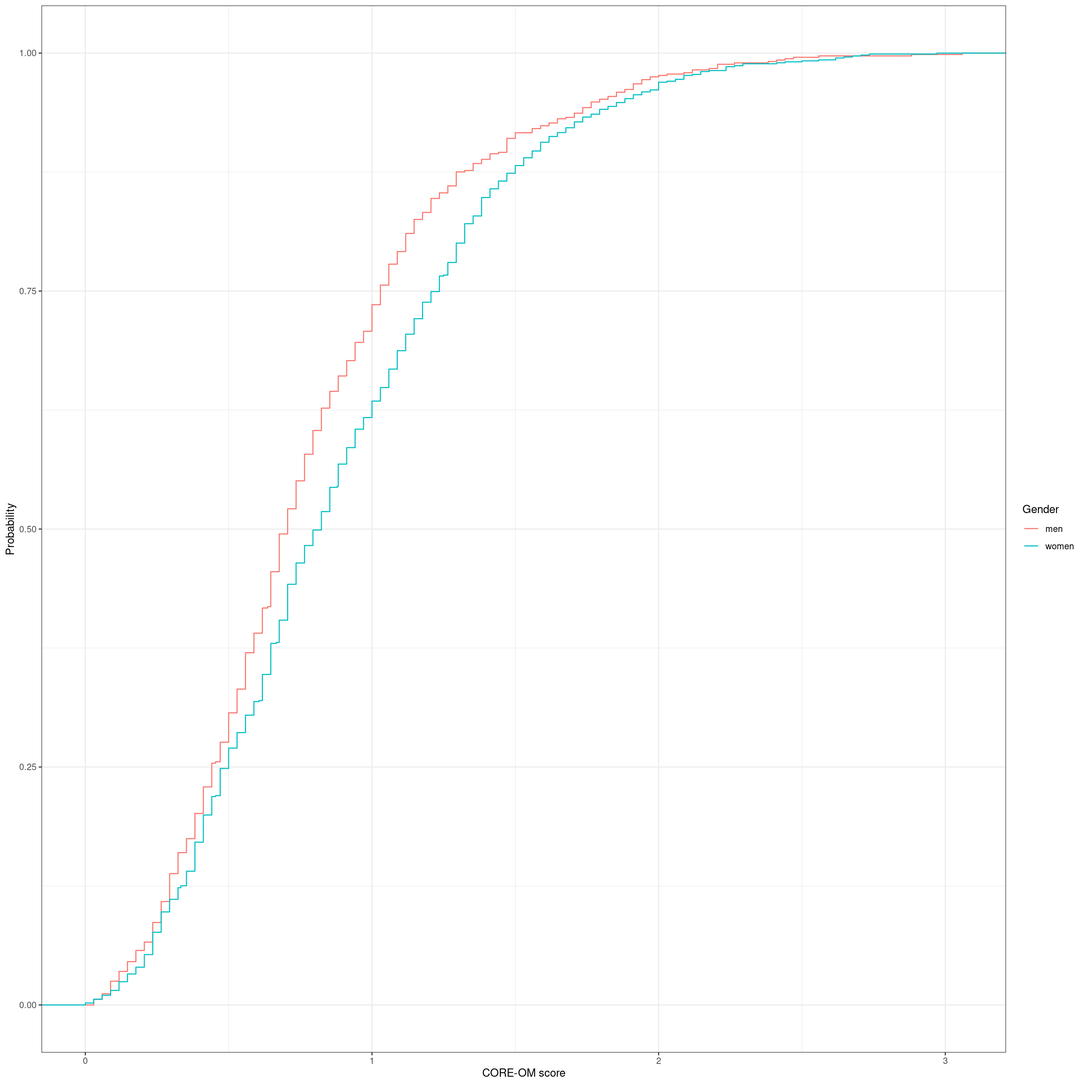
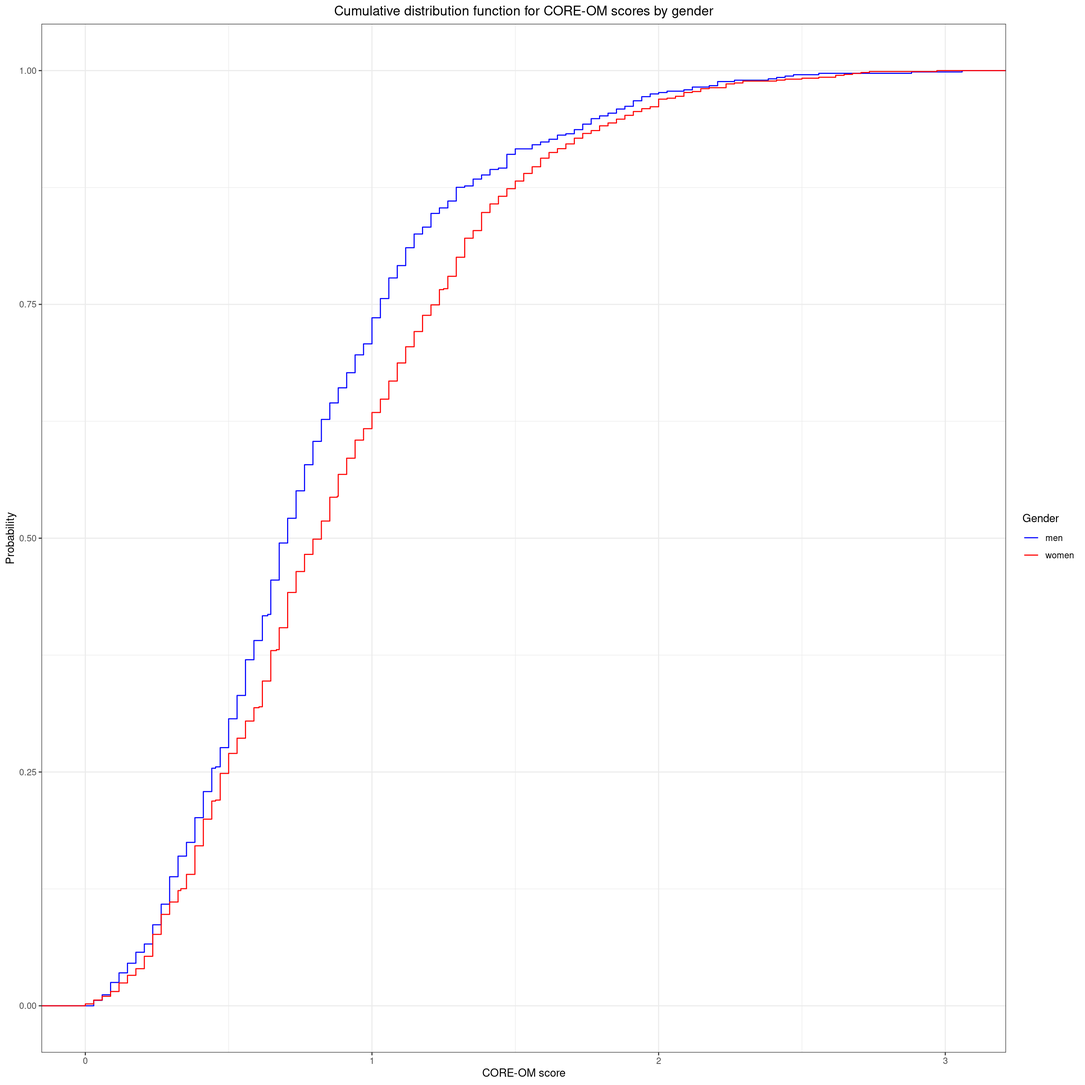
Couple of tweaks
Former-commit-id: f3c81b8920dc75a303f18cf2c46e25ee304b4f4e

diff --git a/_posts/2023-08-07-ecdfs/ecdfs.html b/_posts/2023-08-07-ecdfs/ecdfs.html
@@ -90,7 +90,7 @@ code span.wa { color: #5e5e5e; font-style: italic; } /* Warning */
   <!--radix_placeholder_meta_tags-->
   <title>What is an empirical cumulative distribution function?</title>
 
-  <meta property="description" itemprop="description" content="A general introductioni to the ECDF and quantiles and why they&#39;re useful."/>
+  <meta property="description" itemprop="description" content="A general introduction to the ECDF and quantiles and why they&#39;re useful."/>
 
   <link rel="license" href="https://creativecommons.org/licenses/by-sa/4.0/"/>
 
@@ -102,24 +102,24 @@ code span.wa { color: #5e5e5e; font-style: italic; } /* Warning */
   <!--  https://developers.facebook.com/docs/sharing/webmasters#markup -->
   <meta property="og:title" content="What is an empirical cumulative distribution function?"/>
   <meta property="og:type" content="article"/>
-  <meta property="og:description" content="A general introductioni to the ECDF and quantiles and why they&#39;re useful."/>
+  <meta property="og:description" content="A general introduction to the ECDF and quantiles and why they&#39;re useful."/>
   <meta property="og:locale" content="en_US"/>
 
   <!--  https://dev.twitter.com/cards/types/summary -->
   <meta property="twitter:card" content="summary"/>
   <meta property="twitter:title" content="What is an empirical cumulative distribution function?"/>
-  <meta property="twitter:description" content="A general introductioni to the ECDF and quantiles and why they&#39;re useful."/>
+  <meta property="twitter:description" content="A general introduction to the ECDF and quantiles and why they&#39;re useful."/>
 
   <!--/radix_placeholder_meta_tags-->
   <!--radix_placeholder_rmarkdown_metadata-->
 
   <script type="text/json" id="radix-rmarkdown-metadata">
-  {"type":"list","attributes":{"names":{"type":"character","attributes":{},"value":["title","description","author","date","categories","output","creative_commons"]}},"value":[{"type":"character","attributes":{},"value":["What is an empirical cumulative distribution function?"]},{"type":"character","attributes":{},"value":["A general introductioni to the ECDF and quantiles and why they're useful.\n"]},{"type":"list","attributes":{},"value":[{"type":"list","attributes":{"names":{"type":"character","attributes":{},"value":["name","url","affiliation","affiliation_url","orcid_id"]}},"value":[{"type":"character","attributes":{},"value":["Chris Evans"]},{"type":"character","attributes":{},"value":["https://www.psyctc.org/R_blog/"]},{"type":"character","attributes":{},"value":["PSYCTC.org"]},{"type":"character","attributes":{},"value":["https://www.psyctc.org/psyctc/"]},{"type":"character","attributes":{},"value":["0000-0002-4197-4202"]}]}]},{"type":"character","attributes":{},"value":["2023-08-07"]},{"type":"character","attributes":{},"value":["distributions","ECDFs"]},{"type":"list","attributes":{"names":{"type":"character","attributes":{},"value":["distill::distill_article"]}},"value":[{"type":"list","attributes":{"names":{"type":"character","attributes":{},"value":["toc","toc_depth","hightlight_downlit","self_contained","code_folding"]}},"value":[{"type":"logical","attributes":{},"value":[true]},{"type":"integer","attributes":{},"value":[4]},{"type":"logical","attributes":{},"value":[true]},{"type":"logical","attributes":{},"value":[false]},{"type":"logical","attributes":{},"value":[true]}]}]},{"type":"character","attributes":{},"value":["CC BY-SA"]}]}
+  {"type":"list","attributes":{"names":{"type":"character","attributes":{},"value":["title","description","author","date","categories","output","creative_commons"]}},"value":[{"type":"character","attributes":{},"value":["What is an empirical cumulative distribution function?"]},{"type":"character","attributes":{},"value":["A general introduction to the ECDF and quantiles and why they're useful.\n"]},{"type":"list","attributes":{},"value":[{"type":"list","attributes":{"names":{"type":"character","attributes":{},"value":["name","url","affiliation","affiliation_url","orcid_id"]}},"value":[{"type":"character","attributes":{},"value":["Chris Evans"]},{"type":"character","attributes":{},"value":["https://www.psyctc.org/R_blog/"]},{"type":"character","attributes":{},"value":["PSYCTC.org"]},{"type":"character","attributes":{},"value":["https://www.psyctc.org/psyctc/"]},{"type":"character","attributes":{},"value":["0000-0002-4197-4202"]}]}]},{"type":"character","attributes":{},"value":["2023-08-07"]},{"type":"character","attributes":{},"value":["distributions","ECDFs"]},{"type":"list","attributes":{"names":{"type":"character","attributes":{},"value":["distill::distill_article"]}},"value":[{"type":"list","attributes":{"names":{"type":"character","attributes":{},"value":["toc","toc_depth","hightlight_downlit","self_contained","code_folding"]}},"value":[{"type":"logical","attributes":{},"value":[true]},{"type":"integer","attributes":{},"value":[4]},{"type":"logical","attributes":{},"value":[true]},{"type":"logical","attributes":{},"value":[false]},{"type":"logical","attributes":{},"value":[true]}]}]},{"type":"character","attributes":{},"value":["CC BY-SA"]}]}
   </script>
   <!--/radix_placeholder_rmarkdown_metadata-->
   
   <script type="text/json" id="radix-resource-manifest">
-  {"type":"character","attributes":{},"value":["ecdfs_files/anchor-4.2.2/anchor.min.js","ecdfs_files/bowser-1.9.3/bowser.min.js","ecdfs_files/distill-2.2.21/template.v2.js","ecdfs_files/figure-html5/boxPlots-1.png","ecdfs_files/figure-html5/counts-1.png","ecdfs_files/figure-html5/ecdfs-1.png","ecdfs_files/figure-html5/equiprob1-1.png","ecdfs_files/figure-html5/plotECDF1-1.png","ecdfs_files/figure-html5/plotECDFrug-1.png","ecdfs_files/figure-html5/plotECDFrug2-1.png","ecdfs_files/figure-html5/plotGaussian1-1.png","ecdfs_files/figure-html5/plotGaussian2-1.png","ecdfs_files/figure-html5/realDat1-1.png","ecdfs_files/figure-html5/violinPlots-1.png","ecdfs_files/figure-html5/violinPlots1-1.png","ecdfs_files/figure-html5/violinPlots2-1.png","ecdfs_files/header-attrs-2.23/header-attrs.js","ecdfs_files/jquery-3.6.0/jquery-3.6.0.js","ecdfs_files/jquery-3.6.0/jquery-3.6.0.min.js","ecdfs_files/jquery-3.6.0/jquery-3.6.0.min.map","ecdfs_files/popper-2.6.0/popper.min.js","ecdfs_files/tabwid-1.1.3/tabwid.css","ecdfs_files/tabwid-1.1.3/tabwid.js","ecdfs_files/tippy-6.2.7/tippy-bundle.umd.min.js","ecdfs_files/tippy-6.2.7/tippy-light-border.css","ecdfs_files/tippy-6.2.7/tippy.css","ecdfs_files/tippy-6.2.7/tippy.umd.min.js","ecdfs_files/webcomponents-2.0.0/webcomponents.js","tmpScores"]}
+  {"type":"character","attributes":{},"value":["ecdfs_files/anchor-4.2.2/anchor.min.js","ecdfs_files/bowser-1.9.3/bowser.min.js","ecdfs_files/distill-2.2.21/template.v2.js","ecdfs_files/figure-html5/boxPlots-1.png","ecdfs_files/figure-html5/counts-1.png","ecdfs_files/figure-html5/ecdfs-1.png","ecdfs_files/figure-html5/equiprob1-1.png","ecdfs_files/figure-html5/plotECDF1-1.png","ecdfs_files/figure-html5/plotECDFrug-1.png","ecdfs_files/figure-html5/plotECDFrug2-1.png","ecdfs_files/figure-html5/plotGaussian1-1.png","ecdfs_files/figure-html5/plotGaussian2-1.png","ecdfs_files/figure-html5/realDat1-1.png","ecdfs_files/figure-html5/violinPlots-1.png","ecdfs_files/figure-html5/violinPlots1-1.png","ecdfs_files/figure-html5/violinPlots2-1.png","ecdfs_files/header-attrs-2.23/header-attrs.js","ecdfs_files/header-attrs-2.24/header-attrs.js","ecdfs_files/jquery-3.6.0/jquery-3.6.0.js","ecdfs_files/jquery-3.6.0/jquery-3.6.0.min.js","ecdfs_files/jquery-3.6.0/jquery-3.6.0.min.map","ecdfs_files/popper-2.6.0/popper.min.js","ecdfs_files/tabwid-1.1.3/tabwid.css","ecdfs_files/tabwid-1.1.3/tabwid.js","ecdfs_files/tippy-6.2.7/tippy-bundle.umd.min.js","ecdfs_files/tippy-6.2.7/tippy-light-border.css","ecdfs_files/tippy-6.2.7/tippy.css","ecdfs_files/tippy-6.2.7/tippy.umd.min.js","ecdfs_files/webcomponents-2.0.0/webcomponents.js","tmpScores"]}
   </script>
   <!--radix_placeholder_navigation_in_header-->
   <!--/radix_placeholder_navigation_in_header-->
@@ -231,9 +231,21 @@ code span.wa { color: #5e5e5e; font-style: italic; } /* Warning */
     display: none !important;
   }
 
+  hr.section-separator {
+    border: none;
+    border-top: 1px solid rgba(0, 0, 0, 0.1);
+    margin: 0px;
+  }
+
+
+  d-byline {
+    border-top: none;
+  }
+
   d-article {
     padding-top: 2.5rem;
     padding-bottom: 30px;
+    border-top: none;
   }
 
   d-appendix {
@@ -1094,6 +1106,12 @@ code span.wa { color: #5e5e5e; font-style: italic; } /* Warning */
     // create d-title
     $('.d-title').changeElementType('d-title');
 
+    // separator
+    var separator = '<hr class="section-separator" style="clear: both"/>';
+    // prepend separator above appendix
+    $('.d-byline').before(separator);
+    $('.d-article').before(separator);
+
     // create d-byline
     var byline = $('<d-byline></d-byline>');
     $('.d-byline').replaceWith(byline);
@@ -1199,12 +1217,13 @@ code span.wa { color: #5e5e5e; font-style: italic; } /* Warning */
       // add orcid ids
       $('.authors-affiliations').find('.author').each(function(i, el) {
         var orcid_id = front_matter.authors[i].orcidID;
+        var author_name = front_matter.authors[i].author
         if (orcid_id) {
           var a = $('<a></a>');
           a.attr('href', 'https://orcid.org/' + orcid_id);
           var img = $('<img></img>');
           img.addClass('orcid-id');
-          img.attr('alt', 'ORCID ID');
+          img.attr('alt', author_name ? 'ORCID ID for ' + author_name : 'ORCID ID');
[1 lines of base64/hex data omitted]
           a.append(img);
           $(this).append(a);
@@ -1482,7 +1501,7 @@ code span.wa { color: #5e5e5e; font-style: italic; } /* Warning */
   </script>
 
   <!--/radix_placeholder_distill-->
-  <script src="ecdfs_files/header-attrs-2.24/header-attrs.js"></script>
+  <script src="ecdfs_files/header-attrs-2.25/header-attrs.js"></script>
   <link href="ecdfs_files/tabwid-1.1.3/tabwid.css" rel="stylesheet" />
   <script src="ecdfs_files/tabwid-1.1.3/tabwid.js"></script>
   <script src="ecdfs_files/jquery-3.6.0/jquery-3.6.0.min.js"></script>
@@ -1505,7 +1524,7 @@ code span.wa { color: #5e5e5e; font-style: italic; } /* Warning */
 <!--radix_placeholder_front_matter-->
 
 <script id="distill-front-matter" type="text/json">
-{"title":"What is an empirical cumulative distribution function?","description":"A general introductioni to the ECDF and quantiles and why they're useful.","authors":[{"author":"Chris Evans","authorURL":"https://www.psyctc.org/R_blog/","affiliation":"PSYCTC.org","affiliationURL":"https://www.psyctc.org/psyctc/","orcidID":"0000-0002-4197-4202"}],"publishedDate":"2023-08-07T00:00:00.000+02:00","citationText":"Evans, 2023"}
+{"title":"What is an empirical cumulative distribution function?","description":"A general introduction to the ECDF and quantiles and why they're useful.","authors":[{"author":"Chris Evans","authorURL":"https://www.psyctc.org/R_blog/","affiliation":"PSYCTC.org","affiliationURL":"https://www.psyctc.org/psyctc/","orcidID":"0000-0002-4197-4202"}],"publishedDate":"2023-08-07T00:00:00.000+02:00","citationText":"Evans, 2023"}
 </script>
 
 <!--/radix_placeholder_front_matter-->
@@ -1523,7 +1542,7 @@ code span.wa { color: #5e5e5e; font-style: italic; } /* Warning */
 <div class="dt-tag">ECDFs</div>
 </div>
 <!--/radix_placeholder_categories-->
-<p><p>A general introductioni to the ECDF and quantiles and why they’re useful.</p></p>
+<p><p>A general introduction to the ECDF and quantiles and why they’re useful.</p></p>
 </div>
 
 <div class="d-byline">

diff --git a/_posts/2023-08-11-mapping-individual-scores-to-referential-data-using-quantiles/mapping-individual-scores-to-referential-data-using-quantiles.html b/_posts/2023-08-11-mapping-individual-scores-to-referential-data-using-quantiles/mapping-individual-scores-to-referential-data-using-quantiles.html
@@ -119,7 +119,7 @@ code span.wa { color: #5e5e5e; font-style: italic; } /* Warning */
   <!--/radix_placeholder_rmarkdown_metadata-->
   
   <script type="text/json" id="radix-resource-manifest">
-  {"type":"character","attributes":{},"value":["mapping-individual-scores-to-referential-data-using-quantiles_files/anchor-4.2.2/anchor.min.js","mapping-individual-scores-to-referential-data-using-quantiles_files/bowser-1.9.3/bowser.min.js","mapping-individual-scores-to-referential-data-using-quantiles_files/distill-2.2.21/template.v2.js","mapping-individual-scores-to-referential-data-using-quantiles_files/figure-html5/bootMeanGenderPlot-1.png","mapping-individual-scores-to-referential-data-using-quantiles_files/figure-html5/bootMeanGenderPlot2-1.png","mapping-individual-scores-to-referential-data-using-quantiles_files/figure-html5/changeMap-1.png","mapping-individual-scores-to-referential-data-using-quantiles_files/figure-html5/gender1-1.png","mapping-individual-scores-to-referential-data-using-quantiles_files/figure-html5/gender2-1.png","mapping-individual-scores-to-referential-data-using-quantiles_files/figure-html5/gender3-1.png","mapping-individual-scores-to-referential-data-using-quantiles_files/figure-html5/gender3-2.png","mapping-individual-scores-to-referential-data-using-quantiles_files/figure-html5/realDat1-1.png","mapping-individual-scores-to-referential-data-using-quantiles_files/header-attrs-2.23/header-attrs.js","mapping-individual-scores-to-referential-data-using-quantiles_files/header-attrs-2.24/header-attrs.js","mapping-individual-scores-to-referential-data-using-quantiles_files/jquery-3.6.0/jquery-3.6.0.js","mapping-individual-scores-to-referential-data-using-quantiles_files/jquery-3.6.0/jquery-3.6.0.min.js","mapping-individual-scores-to-referential-data-using-quantiles_files/jquery-3.6.0/jquery-3.6.0.min.map","mapping-individual-scores-to-referential-data-using-quantiles_files/popper-2.6.0/popper.min.js","mapping-individual-scores-to-referential-data-using-quantiles_files/tabwid-1.1.3/tabwid.css","mapping-individual-scores-to-referential-data-using-quantiles_files/tabwid-1.1.3/tabwid.js","mapping-individual-scores-to-referential-data-using-quantiles_files/tippy-6.2.7/tippy-bundle.umd.min.js","mapping-individual-scores-to-referential-data-using-quantiles_files/tippy-6.2.7/tippy-light-border.css","mapping-individual-scores-to-referential-data-using-quantiles_files/tippy-6.2.7/tippy.css","mapping-individual-scores-to-referential-data-using-quantiles_files/tippy-6.2.7/tippy.umd.min.js","mapping-individual-scores-to-referential-data-using-quantiles_files/webcomponents-2.0.0/webcomponents.js","tibChangeScores","tmpScores"]}
+  {"type":"character","attributes":{},"value":["mapping-individual-scores-to-referential-data-using-quantiles_files/anchor-4.2.2/anchor.min.js","mapping-individual-scores-to-referential-data-using-quantiles_files/bowser-1.9.3/bowser.min.js","mapping-individual-scores-to-referential-data-using-quantiles_files/distill-2.2.21/template.v2.js","mapping-individual-scores-to-referential-data-using-quantiles_files/figure-html5/bootMeanGenderPlot-1.png","mapping-individual-scores-to-referential-data-using-quantiles_files/figure-html5/bootMeanGenderPlot2-1.png","mapping-individual-scores-to-referential-data-using-quantiles_files/figure-html5/changeMap-1.png","mapping-individual-scores-to-referential-data-using-quantiles_files/figure-html5/gender1-1.png","mapping-individual-scores-to-referential-data-using-quantiles_files/figure-html5/gender2-1.png","mapping-individual-scores-to-referential-data-using-quantiles_files/figure-html5/gender3-1.png","mapping-individual-scores-to-referential-data-using-quantiles_files/figure-html5/gender3-2.png","mapping-individual-scores-to-referential-data-using-quantiles_files/figure-html5/realDat1-1.png","mapping-individual-scores-to-referential-data-using-quantiles_files/header-attrs-2.23/header-attrs.js","mapping-individual-scores-to-referential-data-using-quantiles_files/header-attrs-2.24/header-attrs.js","mapping-individual-scores-to-referential-data-using-quantiles_files/header-attrs-2.25/header-attrs.js","mapping-individual-scores-to-referential-data-using-quantiles_files/jquery-3.6.0/jquery-3.6.0.js","mapping-individual-scores-to-referential-data-using-quantiles_files/jquery-3.6.0/jquery-3.6.0.min.js","mapping-individual-scores-to-referential-data-using-quantiles_files/jquery-3.6.0/jquery-3.6.0.min.map","mapping-individual-scores-to-referential-data-using-quantiles_files/popper-2.6.0/popper.min.js","mapping-individual-scores-to-referential-data-using-quantiles_files/tabwid-1.1.3/tabwid.css","mapping-individual-scores-to-referential-data-using-quantiles_files/tabwid-1.1.3/tabwid.js","mapping-individual-scores-to-referential-data-using-quantiles_files/tippy-6.2.7/tippy-bundle.umd.min.js","mapping-individual-scores-to-referential-data-using-quantiles_files/tippy-6.2.7/tippy-light-border.css","mapping-individual-scores-to-referential-data-using-quantiles_files/tippy-6.2.7/tippy.css","mapping-individual-scores-to-referential-data-using-quantiles_files/tippy-6.2.7/tippy.umd.min.js","mapping-individual-scores-to-referential-data-using-quantiles_files/webcomponents-2.0.0/webcomponents.js","tibChangeScores","tmpScores"]}
   </script>
   <!--radix_placeholder_navigation_in_header-->
   <!--/radix_placeholder_navigation_in_header-->
@@ -231,9 +231,21 @@ code span.wa { color: #5e5e5e; font-style: italic; } /* Warning */
     display: none !important;
   }
 
+  hr.section-separator {
+    border: none;
+    border-top: 1px solid rgba(0, 0, 0, 0.1);
+    margin: 0px;
+  }
+
+
+  d-byline {
+    border-top: none;
+  }
+
   d-article {
     padding-top: 2.5rem;
     padding-bottom: 30px;
+    border-top: none;
   }
 
   d-appendix {
@@ -1094,6 +1106,12 @@ code span.wa { color: #5e5e5e; font-style: italic; } /* Warning */
     // create d-title
     $('.d-title').changeElementType('d-title');
 
+    // separator
+    var separator = '<hr class="section-separator" style="clear: both"/>';
+    // prepend separator above appendix
+    $('.d-byline').before(separator);
+    $('.d-article').before(separator);
+
     // create d-byline
     var byline = $('<d-byline></d-byline>');
     $('.d-byline').replaceWith(byline);
@@ -1199,12 +1217,13 @@ code span.wa { color: #5e5e5e; font-style: italic; } /* Warning */
       // add orcid ids
       $('.authors-affiliations').find('.author').each(function(i, el) {
         var orcid_id = front_matter.authors[i].orcidID;
+        var author_name = front_matter.authors[i].author
         if (orcid_id) {
           var a = $('<a></a>');
           a.attr('href', 'https://orcid.org/' + orcid_id);
           var img = $('<img></img>');
           img.addClass('orcid-id');
-          img.attr('alt', 'ORCID ID');
+          img.attr('alt', author_name ? 'ORCID ID for ' + author_name : 'ORCID ID');
[1 lines of base64/hex data omitted]
           a.append(img);
           $(this).append(a);
@@ -1482,7 +1501,7 @@ code span.wa { color: #5e5e5e; font-style: italic; } /* Warning */
   </script>
 
   <!--/radix_placeholder_distill-->
-  <script src="mapping-individual-scores-to-referential-data-using-quantiles_files/header-attrs-2.24/header-attrs.js"></script>
+  <script src="mapping-individual-scores-to-referential-data-using-quantiles_files/header-attrs-2.25/header-attrs.js"></script>
   <link href="mapping-individual-scores-to-referential-data-using-quantiles_files/tabwid-1.1.3/tabwid.css" rel="stylesheet" />
   <script src="mapping-individual-scores-to-referential-data-using-quantiles_files/tabwid-1.1.3/tabwid.js"></script>
   <script src="mapping-individual-scores-to-referential-data-using-quantiles_files/jquery-3.6.0/jquery-3.6.0.min.js"></script>
@@ -1862,11 +1881,14 @@ Show code
 Show code
 </summary>
 <div class="sourceCode">
-<pre class="sourceCode r"><code class="sourceCode r"><span><span class='fu'><a href='https://ggplot2.tidyverse.org/reference/ggplot.html'>ggplot</a></span><span class='op'>(</span>data <span class='op'>=</span> <span class='va'>tmpScores2</span>,</span>
+<pre class="sourceCode r"><code class="sourceCode r"><span><span class='va'>vecGenderColours</span> <span class='op'>&lt;-</span> <span class='fu'><a href='https://rdrr.io/r/base/c.html'>c</a></span><span class='op'>(</span><span class='st'>"men"</span> <span class='op'>=</span> <span class='st'>"blue"</span>, <span class='st'>"women"</span> <span class='op'>=</span> <span class='st'>"red"</span><span class='op'>)</span></span>
+<span><span class='fu'><a href='https://ggplot2.tidyverse.org/reference/ggplot.html'>ggplot</a></span><span class='op'>(</span>data <span class='op'>=</span> <span class='va'>tmpScores2</span>,</span>
 <span>       <span class='fu'><a href='https://ggplot2.tidyverse.org/reference/aes.html'>aes</a></span><span class='op'>(</span>x <span class='op'>=</span> <span class='va'>COREOMscore</span>, colour <span class='op'>=</span> <span class='va'>Gender</span><span class='op'>)</span><span class='op'>)</span> <span class='op'>+</span></span>
 <span>  <span class='fu'><a href='https://ggplot2.tidyverse.org/reference/stat_ecdf.html'>stat_ecdf</a></span><span class='op'>(</span><span class='op'>)</span> <span class='op'>+</span></span>
 <span>  <span class='fu'><a href='https://ggplot2.tidyverse.org/reference/labs.html'>ylab</a></span><span class='op'>(</span><span class='st'>"Probability"</span><span class='op'>)</span> <span class='op'>+</span></span>
-<span>  <span class='fu'><a href='https://ggplot2.tidyverse.org/reference/labs.html'>xlab</a></span><span class='op'>(</span><span class='st'>"CORE-OM score"</span><span class='op'>)</span></span></code></pre>
+<span>  <span class='fu'><a href='https://ggplot2.tidyverse.org/reference/labs.html'>xlab</a></span><span class='op'>(</span><span class='st'>"CORE-OM score"</span><span class='op'>)</span> <span class='op'>+</span></span>
+<span>  <span class='fu'><a href='https://ggplot2.tidyverse.org/reference/scale_manual.html'>scale_color_manual</a></span><span class='op'>(</span>values <span class='op'>=</span> <span class='va'>vecGenderColours</span><span class='op'>)</span> <span class='op'>+</span></span>
+<span>  <span class='fu'><a href='https://ggplot2.tidyverse.org/reference/labs.html'>ggtitle</a></span><span class='op'>(</span><span class='st'>"Cumulative distribution function for CORE-OM scores by gender"</span><span class='op'>)</span></span></code></pre>
 </div>
 </details>
 <p><img src="mapping-individual-scores-to-referential-data-using-quantiles_files/figure-html5/gender2-1.png" width="1440" /></p>

diff --git a/_site/posts/2023-08-07-ecdfs/index.html b/_site/posts/2023-08-07-ecdfs/index.html
@@ -90,7 +90,7 @@ code span.wa { color: #5e5e5e; font-style: italic; } /* Warning */
   <!--radix_placeholder_meta_tags-->
 <title>Chris (Evans) R SAFAQ: What is an empirical cumulative distribution function?</title>
 
-<meta property="description" itemprop="description" content="A general introductioni to the ECDF and quantiles and why they&#39;re useful."/>
+<meta property="description" itemprop="description" content="A general introduction to the ECDF and quantiles and why they&#39;re useful."/>
 
 <link rel="canonical" href="https://www.psyctc.org/R_blog/posts/2023-08-07-ecdfs/"/>
 <link rel="license" href="https://creativecommons.org/licenses/by-sa/4.0/"/>
@@ -104,7 +104,7 @@ code span.wa { color: #5e5e5e; font-style: italic; } /* Warning */
 <!--  https://developers.facebook.com/docs/sharing/webmasters#markup -->
 <meta property="og:title" content="Chris (Evans) R SAFAQ: What is an empirical cumulative distribution function?"/>
 <meta property="og:type" content="article"/>
-<meta property="og:description" content="A general introductioni to the ECDF and quantiles and why they&#39;re useful."/>
+<meta property="og:description" content="A general introduction to the ECDF and quantiles and why they&#39;re useful."/>
 <meta property="og:url" content="https://www.psyctc.org/R_blog/posts/2023-08-07-ecdfs/"/>
 <meta property="og:image" content="https://www.psyctc.org/R_blog/posts/2023-08-07-ecdfs/ecdfs_files/figure-html5/plotECDF1-1.png"/>
 <meta property="og:image:width" content="2880"/>
@@ -115,7 +115,7 @@ code span.wa { color: #5e5e5e; font-style: italic; } /* Warning */
 <!--  https://dev.twitter.com/cards/types/summary -->
 <meta property="twitter:card" content="summary_large_image"/>
 <meta property="twitter:title" content="Chris (Evans) R SAFAQ: What is an empirical cumulative distribution function?"/>
-<meta property="twitter:description" content="A general introductioni to the ECDF and quantiles and why they&#39;re useful."/>
+<meta property="twitter:description" content="A general introduction to the ECDF and quantiles and why they&#39;re useful."/>
 <meta property="twitter:url" content="https://www.psyctc.org/R_blog/posts/2023-08-07-ecdfs/"/>
 <meta property="twitter:image" content="https://www.psyctc.org/R_blog/posts/2023-08-07-ecdfs/ecdfs_files/figure-html5/plotECDF1-1.png"/>
 <meta property="twitter:image:width" content="2880"/>
@@ -133,12 +133,12 @@ code span.wa { color: #5e5e5e; font-style: italic; } /* Warning */
   <!--radix_placeholder_rmarkdown_metadata-->
 
 <script type="text/json" id="radix-rmarkdown-metadata">
-{"type":"list","attributes":{"names":{"type":"character","attributes":{},"value":["title","description","author","date","categories","output","creative_commons","citation_url","canonical_url"]}},"value":[{"type":"character","attributes":{},"value":["What is an empirical cumulative distribution function?"]},{"type":"character","attributes":{},"value":["A general introductioni to the ECDF and quantiles and why they're useful."]},{"type":"list","attributes":{},"value":[{"type":"list","attributes":{"names":{"type":"character","attributes":{},"value":["name","url","affiliation","affiliation_url","orcid_id"]}},"value":[{"type":"character","attributes":{},"value":["Chris Evans"]},{"type":"character","attributes":{},"value":["https://www.psyctc.org/R_blog/"]},{"type":"character","attributes":{},"value":["PSYCTC.org"]},{"type":"character","attributes":{},"value":["https://www.psyctc.org/psyctc/"]},{"type":"character","attributes":{},"value":["0000-0002-4197-4202"]}]}]},{"type":"character","attributes":{},"value":["2023-08-07"]},{"type":"character","attributes":{},"value":["distributions","ECDFs"]},{"type":"list","attributes":{"names":{"type":"character","attributes":{},"value":["distill::distill_article"]}},"value":[{"type":"list","attributes":{"names":{"type":"character","attributes":{},"value":["toc","toc_depth","hightlight_downlit","self_contained","code_folding"]}},"value":[{"type":"logical","attributes":{},"value":[true]},{"type":"integer","attributes":{},"value":[4]},{"type":"logical","attributes":{},"value":[true]},{"type":"logical","attributes":{},"value":[false]},{"type":"logical","attributes":{},"value":[true]}]}]},{"type":"character","attributes":{},"value":["CC BY-SA"]},{"type":"character","attributes":{},"value":["https://www.psyctc.org/R_blog/posts/2023-08-07-ecdfs/"]},{"type":"character","attributes":{},"value":["https://www.psyctc.org/R_blog/posts/2023-08-07-ecdfs/"]}]}
+{"type":"list","attributes":{"names":{"type":"character","attributes":{},"value":["title","description","author","date","categories","output","creative_commons","citation_url","canonical_url"]}},"value":[{"type":"character","attributes":{},"value":["What is an empirical cumulative distribution function?"]},{"type":"character","attributes":{},"value":["A general introduction to the ECDF and quantiles and why they're useful."]},{"type":"list","attributes":{},"value":[{"type":"list","attributes":{"names":{"type":"character","attributes":{},"value":["name","url","affiliation","affiliation_url","orcid_id"]}},"value":[{"type":"character","attributes":{},"value":["Chris Evans"]},{"type":"character","attributes":{},"value":["https://www.psyctc.org/R_blog/"]},{"type":"character","attributes":{},"value":["PSYCTC.org"]},{"type":"character","attributes":{},"value":["https://www.psyctc.org/psyctc/"]},{"type":"character","attributes":{},"value":["0000-0002-4197-4202"]}]}]},{"type":"character","attributes":{},"value":["2023-08-07"]},{"type":"character","attributes":{},"value":["distributions","ECDFs"]},{"type":"list","attributes":{"names":{"type":"character","attributes":{},"value":["distill::distill_article"]}},"value":[{"type":"list","attributes":{"names":{"type":"character","attributes":{},"value":["toc","toc_depth","hightlight_downlit","self_contained","code_folding"]}},"value":[{"type":"logical","attributes":{},"value":[true]},{"type":"integer","attributes":{},"value":[4]},{"type":"logical","attributes":{},"value":[true]},{"type":"logical","attributes":{},"value":[false]},{"type":"logical","attributes":{},"value":[true]}]}]},{"type":"character","attributes":{},"value":["CC BY-SA"]},{"type":"character","attributes":{},"value":["https://www.psyctc.org/R_blog/posts/2023-08-07-ecdfs/"]},{"type":"character","attributes":{},"value":["https://www.psyctc.org/R_blog/posts/2023-08-07-ecdfs/"]}]}
 </script>
 <!--/radix_placeholder_rmarkdown_metadata-->
   
   <script type="text/json" id="radix-resource-manifest">
-  {"type":"character","attributes":{},"value":["ecdfs_files/anchor-4.2.2/anchor.min.js","ecdfs_files/bowser-1.9.3/bowser.min.js","ecdfs_files/distill-2.2.21/template.v2.js","ecdfs_files/figure-html5/boxPlots-1.png","ecdfs_files/figure-html5/counts-1.png","ecdfs_files/figure-html5/ecdfs-1.png","ecdfs_files/figure-html5/equiprob1-1.png","ecdfs_files/figure-html5/plotECDF1-1.png","ecdfs_files/figure-html5/plotECDFrug-1.png","ecdfs_files/figure-html5/plotECDFrug2-1.png","ecdfs_files/figure-html5/plotGaussian1-1.png","ecdfs_files/figure-html5/plotGaussian2-1.png","ecdfs_files/figure-html5/realDat1-1.png","ecdfs_files/figure-html5/violinPlots-1.png","ecdfs_files/figure-html5/violinPlots1-1.png","ecdfs_files/figure-html5/violinPlots2-1.png","ecdfs_files/header-attrs-2.23/header-attrs.js","ecdfs_files/jquery-3.6.0/jquery-3.6.0.js","ecdfs_files/jquery-3.6.0/jquery-3.6.0.min.js","ecdfs_files/jquery-3.6.0/jquery-3.6.0.min.map","ecdfs_files/popper-2.6.0/popper.min.js","ecdfs_files/tabwid-1.1.3/tabwid.css","ecdfs_files/tabwid-1.1.3/tabwid.js","ecdfs_files/tippy-6.2.7/tippy-bundle.umd.min.js","ecdfs_files/tippy-6.2.7/tippy-light-border.css","ecdfs_files/tippy-6.2.7/tippy.css","ecdfs_files/tippy-6.2.7/tippy.umd.min.js","ecdfs_files/webcomponents-2.0.0/webcomponents.js","tmpScores"]}
+  {"type":"character","attributes":{},"value":["ecdfs_files/anchor-4.2.2/anchor.min.js","ecdfs_files/bowser-1.9.3/bowser.min.js","ecdfs_files/distill-2.2.21/template.v2.js","ecdfs_files/figure-html5/boxPlots-1.png","ecdfs_files/figure-html5/counts-1.png","ecdfs_files/figure-html5/ecdfs-1.png","ecdfs_files/figure-html5/equiprob1-1.png","ecdfs_files/figure-html5/plotECDF1-1.png","ecdfs_files/figure-html5/plotECDFrug-1.png","ecdfs_files/figure-html5/plotECDFrug2-1.png","ecdfs_files/figure-html5/plotGaussian1-1.png","ecdfs_files/figure-html5/plotGaussian2-1.png","ecdfs_files/figure-html5/realDat1-1.png","ecdfs_files/figure-html5/violinPlots-1.png","ecdfs_files/figure-html5/violinPlots1-1.png","ecdfs_files/figure-html5/violinPlots2-1.png","ecdfs_files/header-attrs-2.23/header-attrs.js","ecdfs_files/header-attrs-2.24/header-attrs.js","ecdfs_files/jquery-3.6.0/jquery-3.6.0.js","ecdfs_files/jquery-3.6.0/jquery-3.6.0.min.js","ecdfs_files/jquery-3.6.0/jquery-3.6.0.min.map","ecdfs_files/popper-2.6.0/popper.min.js","ecdfs_files/tabwid-1.1.3/tabwid.css","ecdfs_files/tabwid-1.1.3/tabwid.js","ecdfs_files/tippy-6.2.7/tippy-bundle.umd.min.js","ecdfs_files/tippy-6.2.7/tippy-light-border.css","ecdfs_files/tippy-6.2.7/tippy.css","ecdfs_files/tippy-6.2.7/tippy.umd.min.js","ecdfs_files/webcomponents-2.0.0/webcomponents.js","tmpScores"]}
   </script>
   <!--radix_placeholder_navigation_in_header-->
 <meta name="distill:offset" content="../.."/>
@@ -2453,7 +2453,7 @@ d-appendix d-footnote-list a.footnote-backlink {
   color: var(--hover-color, white);
 }</style>
 <!--/radix_placeholder_distill-->
-  <script src="../../site_libs/header-attrs-2.24/header-attrs.js"></script>
+  <script src="../../site_libs/header-attrs-2.25/header-attrs.js"></script>
   <link href="../../site_libs/tabwid-1.1.3/tabwid.css" rel="stylesheet" />
   <script src="../../site_libs/tabwid-1.1.3/tabwid.js"></script>
   <script src="../../site_libs/jquery-3.6.0/jquery-3.6.0.min.js"></script>
@@ -2527,7 +2527,7 @@ gtag('config', 'G-MTYJ7CVSSH');
 <!--radix_placeholder_front_matter-->
 
 <script id="distill-front-matter" type="text/json">
-{"title":"What is an empirical cumulative distribution function?","description":"A general introductioni to the ECDF and quantiles and why they're useful.","authors":[{"author":"Chris Evans","authorURL":"https://www.psyctc.org/R_blog/","affiliation":"PSYCTC.org","affiliationURL":"https://www.psyctc.org/psyctc/","orcidID":"0000-0002-4197-4202"}],"publishedDate":"2023-08-07T00:00:00.000+02:00","citationText":"Evans, 2023"}
+{"title":"What is an empirical cumulative distribution function?","description":"A general introduction to the ECDF and quantiles and why they're useful.","authors":[{"author":"Chris Evans","authorURL":"https://www.psyctc.org/R_blog/","affiliation":"PSYCTC.org","affiliationURL":"https://www.psyctc.org/psyctc/","orcidID":"0000-0002-4197-4202"}],"publishedDate":"2023-08-07T00:00:00.000+02:00","citationText":"Evans, 2023"}
 </script>
 
 <!--/radix_placeholder_front_matter-->
@@ -2563,7 +2563,7 @@ gtag('config', 'G-MTYJ7CVSSH');
   <a href="../../index.html#category:ECDFs" class="dt-tag">ECDFs</a>
 </div>
 <!--/radix_placeholder_categories-->
-<p><p>A general introductioni to the ECDF and quantiles and why they’re useful.</p></p>
+<p><p>A general introduction to the ECDF and quantiles and why they’re useful.</p></p>
 </div>
 
 <div class="d-byline">

diff --git a/_site/posts/2023-08-11-mapping-individual-scores-to-referential-data-using-quantiles/index.html b/_site/posts/2023-08-11-mapping-individual-scores-to-referential-data-using-quantiles/index.html
@@ -138,7 +138,7 @@ code span.wa { color: #5e5e5e; font-style: italic; } /* Warning */
 <!--/radix_placeholder_rmarkdown_metadata-->
   
   <script type="text/json" id="radix-resource-manifest">
-  {"type":"character","attributes":{},"value":["mapping-individual-scores-to-referential-data-using-quantiles_files/anchor-4.2.2/anchor.min.js","mapping-individual-scores-to-referential-data-using-quantiles_files/bowser-1.9.3/bowser.min.js","mapping-individual-scores-to-referential-data-using-quantiles_files/distill-2.2.21/template.v2.js","mapping-individual-scores-to-referential-data-using-quantiles_files/figure-html5/bootMeanGenderPlot-1.png","mapping-individual-scores-to-referential-data-using-quantiles_files/figure-html5/bootMeanGenderPlot2-1.png","mapping-individual-scores-to-referential-data-using-quantiles_files/figure-html5/changeMap-1.png","mapping-individual-scores-to-referential-data-using-quantiles_files/figure-html5/gender1-1.png","mapping-individual-scores-to-referential-data-using-quantiles_files/figure-html5/gender2-1.png","mapping-individual-scores-to-referential-data-using-quantiles_files/figure-html5/gender3-1.png","mapping-individual-scores-to-referential-data-using-quantiles_files/figure-html5/gender3-2.png","mapping-individual-scores-to-referential-data-using-quantiles_files/figure-html5/realDat1-1.png","mapping-individual-scores-to-referential-data-using-quantiles_files/header-attrs-2.23/header-attrs.js","mapping-individual-scores-to-referential-data-using-quantiles_files/header-attrs-2.24/header-attrs.js","mapping-individual-scores-to-referential-data-using-quantiles_files/jquery-3.6.0/jquery-3.6.0.js","mapping-individual-scores-to-referential-data-using-quantiles_files/jquery-3.6.0/jquery-3.6.0.min.js","mapping-individual-scores-to-referential-data-using-quantiles_files/jquery-3.6.0/jquery-3.6.0.min.map","mapping-individual-scores-to-referential-data-using-quantiles_files/popper-2.6.0/popper.min.js","mapping-individual-scores-to-referential-data-using-quantiles_files/tabwid-1.1.3/tabwid.css","mapping-individual-scores-to-referential-data-using-quantiles_files/tabwid-1.1.3/tabwid.js","mapping-individual-scores-to-referential-data-using-quantiles_files/tippy-6.2.7/tippy-bundle.umd.min.js","mapping-individual-scores-to-referential-data-using-quantiles_files/tippy-6.2.7/tippy-light-border.css","mapping-individual-scores-to-referential-data-using-quantiles_files/tippy-6.2.7/tippy.css","mapping-individual-scores-to-referential-data-using-quantiles_files/tippy-6.2.7/tippy.umd.min.js","mapping-individual-scores-to-referential-data-using-quantiles_files/webcomponents-2.0.0/webcomponents.js","tibChangeScores","tmpScores"]}
+  {"type":"character","attributes":{},"value":["mapping-individual-scores-to-referential-data-using-quantiles_files/anchor-4.2.2/anchor.min.js","mapping-individual-scores-to-referential-data-using-quantiles_files/bowser-1.9.3/bowser.min.js","mapping-individual-scores-to-referential-data-using-quantiles_files/distill-2.2.21/template.v2.js","mapping-individual-scores-to-referential-data-using-quantiles_files/figure-html5/bootMeanGenderPlot-1.png","mapping-individual-scores-to-referential-data-using-quantiles_files/figure-html5/bootMeanGenderPlot2-1.png","mapping-individual-scores-to-referential-data-using-quantiles_files/figure-html5/changeMap-1.png","mapping-individual-scores-to-referential-data-using-quantiles_files/figure-html5/gender1-1.png","mapping-individual-scores-to-referential-data-using-quantiles_files/figure-html5/gender2-1.png","mapping-individual-scores-to-referential-data-using-quantiles_files/figure-html5/gender3-1.png","mapping-individual-scores-to-referential-data-using-quantiles_files/figure-html5/gender3-2.png","mapping-individual-scores-to-referential-data-using-quantiles_files/figure-html5/realDat1-1.png","mapping-individual-scores-to-referential-data-using-quantiles_files/header-attrs-2.23/header-attrs.js","mapping-individual-scores-to-referential-data-using-quantiles_files/header-attrs-2.24/header-attrs.js","mapping-individual-scores-to-referential-data-using-quantiles_files/header-attrs-2.25/header-attrs.js","mapping-individual-scores-to-referential-data-using-quantiles_files/jquery-3.6.0/jquery-3.6.0.js","mapping-individual-scores-to-referential-data-using-quantiles_files/jquery-3.6.0/jquery-3.6.0.min.js","mapping-individual-scores-to-referential-data-using-quantiles_files/jquery-3.6.0/jquery-3.6.0.min.map","mapping-individual-scores-to-referential-data-using-quantiles_files/popper-2.6.0/popper.min.js","mapping-individual-scores-to-referential-data-using-quantiles_files/tabwid-1.1.3/tabwid.css","mapping-individual-scores-to-referential-data-using-quantiles_files/tabwid-1.1.3/tabwid.js","mapping-individual-scores-to-referential-data-using-quantiles_files/tippy-6.2.7/tippy-bundle.umd.min.js","mapping-individual-scores-to-referential-data-using-quantiles_files/tippy-6.2.7/tippy-light-border.css","mapping-individual-scores-to-referential-data-using-quantiles_files/tippy-6.2.7/tippy.css","mapping-individual-scores-to-referential-data-using-quantiles_files/tippy-6.2.7/tippy.umd.min.js","mapping-individual-scores-to-referential-data-using-quantiles_files/webcomponents-2.0.0/webcomponents.js","tibChangeScores","tmpScores"]}
   </script>
   <!--radix_placeholder_navigation_in_header-->
 <meta name="distill:offset" content="../.."/>
@@ -2453,7 +2453,7 @@ d-appendix d-footnote-list a.footnote-backlink {
   color: var(--hover-color, white);
 }</style>
 <!--/radix_placeholder_distill-->
-  <script src="../../site_libs/header-attrs-2.24/header-attrs.js"></script>
+  <script src="../../site_libs/header-attrs-2.25/header-attrs.js"></script>
   <link href="../../site_libs/tabwid-1.1.3/tabwid.css" rel="stylesheet" />
   <script src="../../site_libs/tabwid-1.1.3/tabwid.js"></script>
   <script src="../../site_libs/jquery-3.6.0/jquery-3.6.0.min.js"></script>
@@ -2902,11 +2902,14 @@ Show code
 Show code
 </summary>
 <div class="sourceCode">
-<pre class="sourceCode r"><code class="sourceCode r"><span><span class='fu'><a href='https://ggplot2.tidyverse.org/reference/ggplot.html'>ggplot</a></span><span class='op'>(</span>data <span class='op'>=</span> <span class='va'>tmpScores2</span>,</span>
+<pre class="sourceCode r"><code class="sourceCode r"><span><span class='va'>vecGenderColours</span> <span class='op'>&lt;-</span> <span class='fu'><a href='https://rdrr.io/r/base/c.html'>c</a></span><span class='op'>(</span><span class='st'>"men"</span> <span class='op'>=</span> <span class='st'>"blue"</span>, <span class='st'>"women"</span> <span class='op'>=</span> <span class='st'>"red"</span><span class='op'>)</span></span>
+<span><span class='fu'><a href='https://ggplot2.tidyverse.org/reference/ggplot.html'>ggplot</a></span><span class='op'>(</span>data <span class='op'>=</span> <span class='va'>tmpScores2</span>,</span>
 <span>       <span class='fu'><a href='https://ggplot2.tidyverse.org/reference/aes.html'>aes</a></span><span class='op'>(</span>x <span class='op'>=</span> <span class='va'>COREOMscore</span>, colour <span class='op'>=</span> <span class='va'>Gender</span><span class='op'>)</span><span class='op'>)</span> <span class='op'>+</span></span>
 <span>  <span class='fu'><a href='https://ggplot2.tidyverse.org/reference/stat_ecdf.html'>stat_ecdf</a></span><span class='op'>(</span><span class='op'>)</span> <span class='op'>+</span></span>
 <span>  <span class='fu'><a href='https://ggplot2.tidyverse.org/reference/labs.html'>ylab</a></span><span class='op'>(</span><span class='st'>"Probability"</span><span class='op'>)</span> <span class='op'>+</span></span>
-<span>  <span class='fu'><a href='https://ggplot2.tidyverse.org/reference/labs.html'>xlab</a></span><span class='op'>(</span><span class='st'>"CORE-OM score"</span><span class='op'>)</span></span></code></pre>
+<span>  <span class='fu'><a href='https://ggplot2.tidyverse.org/reference/labs.html'>xlab</a></span><span class='op'>(</span><span class='st'>"CORE-OM score"</span><span class='op'>)</span> <span class='op'>+</span></span>
+<span>  <span class='fu'><a href='https://ggplot2.tidyverse.org/reference/scale_manual.html'>scale_color_manual</a></span><span class='op'>(</span>values <span class='op'>=</span> <span class='va'>vecGenderColours</span><span class='op'>)</span> <span class='op'>+</span></span>
+<span>  <span class='fu'><a href='https://ggplot2.tidyverse.org/reference/labs.html'>ggtitle</a></span><span class='op'>(</span><span class='st'>"Cumulative distribution function for CORE-OM scores by gender"</span><span class='op'>)</span></span></code></pre>
 </div>
 </details>
 <p><img src="mapping-individual-scores-to-referential-data-using-quantiles_files/figure-html5/gender2-1.png" width="1440" /></p>

diff --git a/_site/index.html b/_site/index.html
@@ -2661,7 +2661,7 @@ function init_posts_list() {
 <a href="posts/2023-11-27-cispearman/" class="post-preview">
 <script class="post-metadata" type="text/json">{"categories":["CECPfuns package","Correlation","Non-parametric statistics","Rank methods"]}</script>
 <div class="metadata">
-<div class="publishedDate">Nov. 26, 2023</div>
+<div class="publishedDate">Nov. 27, 2023</div>
 <div class="dt-authors">
 <div class="dt-author">Chris Evans</div>
 </div>
@@ -2874,7 +2874,7 @@ function init_posts_list() {
 <div class="dt-tag">distributions</div>
 <div class="dt-tag">ECDFs</div>
 </div>
-<p>A general introductioni to the ECDF and quantiles and why they're useful.</p>
+<p>A general introduction to the ECDF and quantiles and why they're useful.</p>
 </div>
 </a>
 <a href="posts/2023-08-07-wisdom-of-years/" class="post-preview">

diff --git a/_posts/2023-08-07-ecdfs/ecdfs_files/header-attrs-2.25/header-attrs.js b/_posts/2023-08-07-ecdfs/ecdfs_files/header-attrs-2.25/header-attrs.js
@@ -1,0 +1,12 @@
+// Pandoc 2.9 adds attributes on both header and div. We remove the former (to
+// be compatible with the behavior of Pandoc < 2.8).
+document.addEventListener('DOMContentLoaded', function(e) {
+  var hs = document.querySelectorAll("div.section[class*='level'] > :first-child");
+  var i, h, a;
+  for (i = 0; i < hs.length; i++) {
+    h = hs[i];
+    if (!/^h[1-6]$/i.test(h.tagName)) continue;  // it should be a header h1-h6
+    a = h.attributes;
+    while (a.length > 0) h.removeAttribute(a[0].name);
+  }
+});

diff --git a/_posts/2023-08-11-mapping-individual-scores-to-referential-data-using-quantiles/mapping-individual-scores-to-referential-data-using-quantiles_files/header-attrs-2.25/header-attrs.js b/_posts/2023-08-11-mapping-individual-scores-to-referential-data-using-quantiles/mapping-individual-scores-to-referential-data-using-quantiles_files/header-attrs-2.25/header-attrs.js
@@ -1,0 +1,12 @@
+// Pandoc 2.9 adds attributes on both header and div. We remove the former (to
+// be compatible with the behavior of Pandoc < 2.8).
+document.addEventListener('DOMContentLoaded', function(e) {
+  var hs = document.querySelectorAll("div.section[class*='level'] > :first-child");
+  var i, h, a;
+  for (i = 0; i < hs.length; i++) {
+    h = hs[i];
+    if (!/^h[1-6]$/i.test(h.tagName)) continue;  // it should be a header h1-h6
+    a = h.attributes;
+    while (a.length > 0) h.removeAttribute(a[0].name);
+  }
+});

diff --git a/_site/posts/2023-08-07-ecdfs/ecdfs_files/header-attrs-2.24/header-attrs.js b/_site/posts/2023-08-07-ecdfs/ecdfs_files/header-attrs-2.24/header-attrs.js
@@ -1,0 +1,12 @@
+// Pandoc 2.9 adds attributes on both header and div. We remove the former (to
+// be compatible with the behavior of Pandoc < 2.8).
+document.addEventListener('DOMContentLoaded', function(e) {
+  var hs = document.querySelectorAll("div.section[class*='level'] > :first-child");
+  var i, h, a;
+  for (i = 0; i < hs.length; i++) {
+    h = hs[i];
+    if (!/^h[1-6]$/i.test(h.tagName)) continue;  // it should be a header h1-h6
+    a = h.attributes;
+    while (a.length > 0) h.removeAttribute(a[0].name);
+  }
+});

diff --git a/_site/posts/2023-08-11-mapping-individual-scores-to-referential-data-using-quantiles/mapping-individual-scores-to-referential-data-using-quantiles_files/header-attrs-2.24/header-attrs.js b/_site/posts/2023-08-11-mapping-individual-scores-to-referential-data-using-quantiles/mapping-individual-scores-to-referential-data-using-quantiles_files/header-attrs-2.24/header-attrs.js
@@ -1,0 +1,12 @@
+// Pandoc 2.9 adds attributes on both header and div. We remove the former (to
+// be compatible with the behavior of Pandoc < 2.8).
+document.addEventListener('DOMContentLoaded', function(e) {
+  var hs = document.querySelectorAll("div.section[class*='level'] > :first-child");
+  var i, h, a;
+  for (i = 0; i < hs.length; i++) {
+    h = hs[i];
+    if (!/^h[1-6]$/i.test(h.tagName)) continue;  // it should be a header h1-h6
+    a = h.attributes;
+    while (a.length > 0) h.removeAttribute(a[0].name);
+  }
+});
